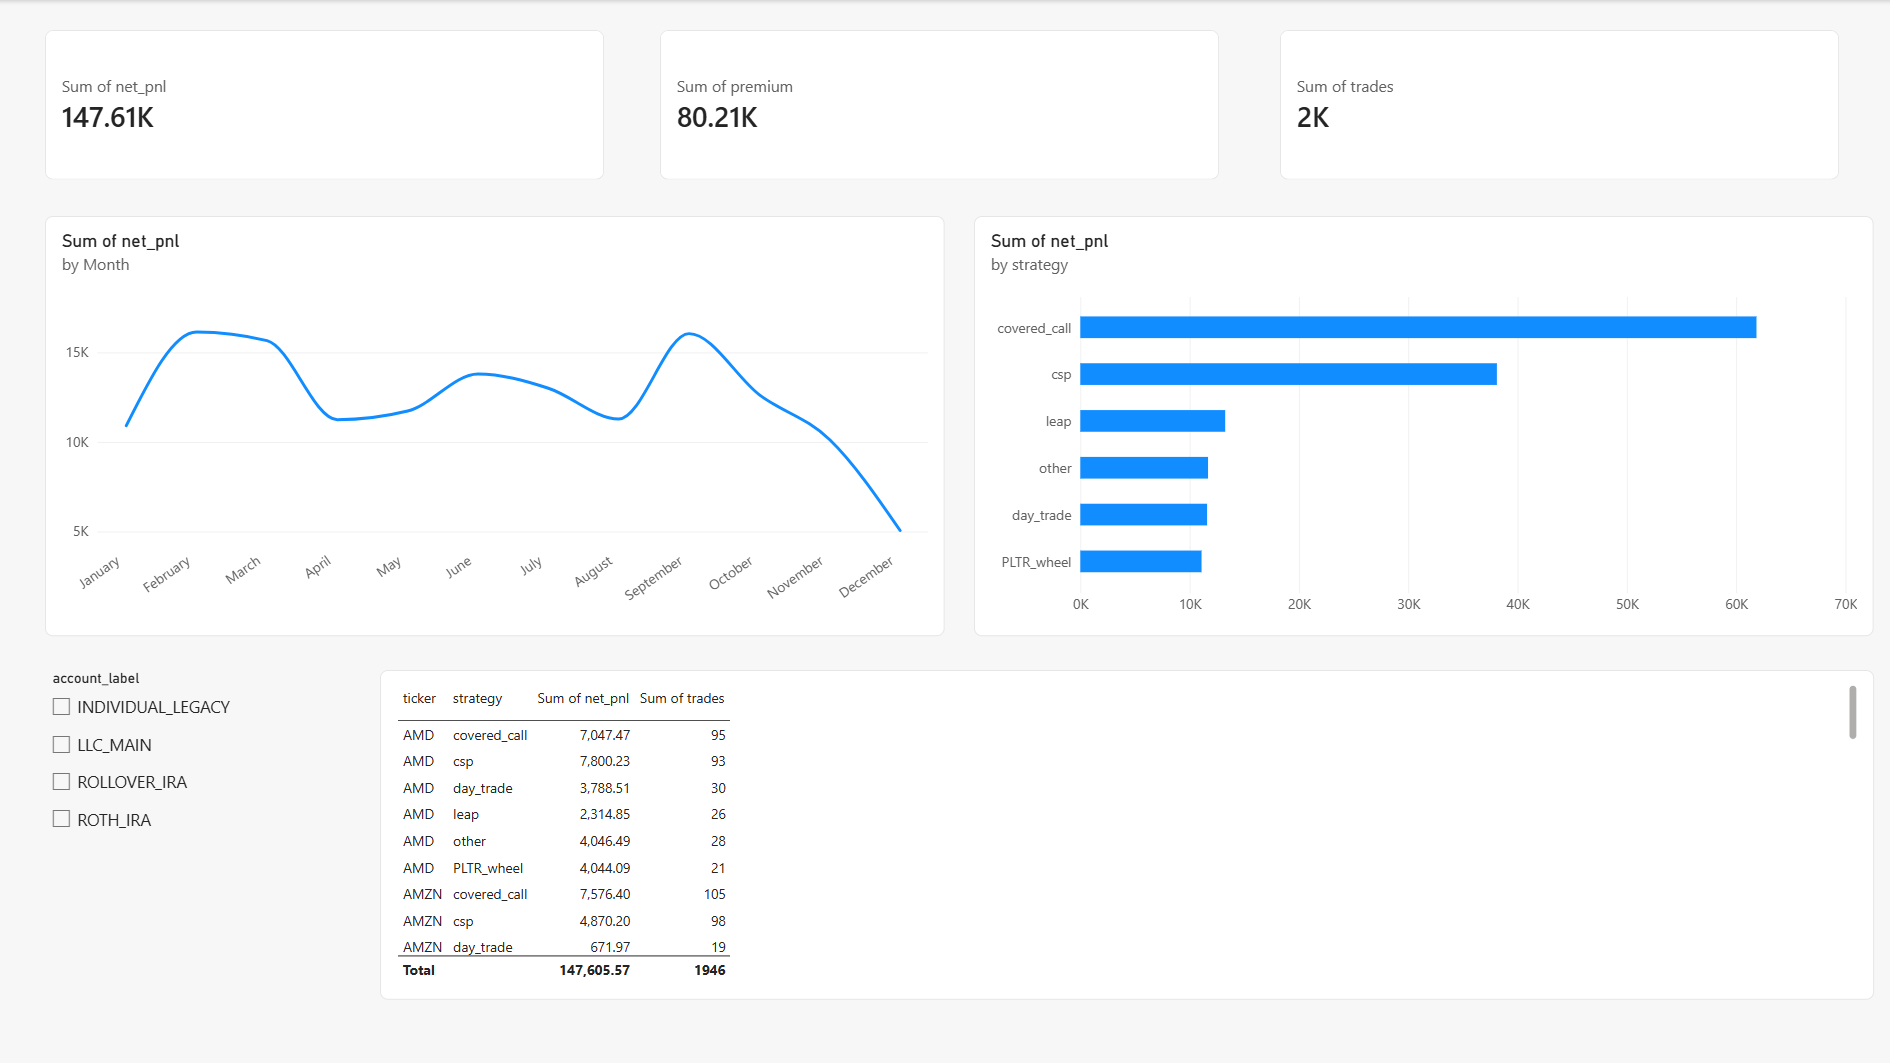
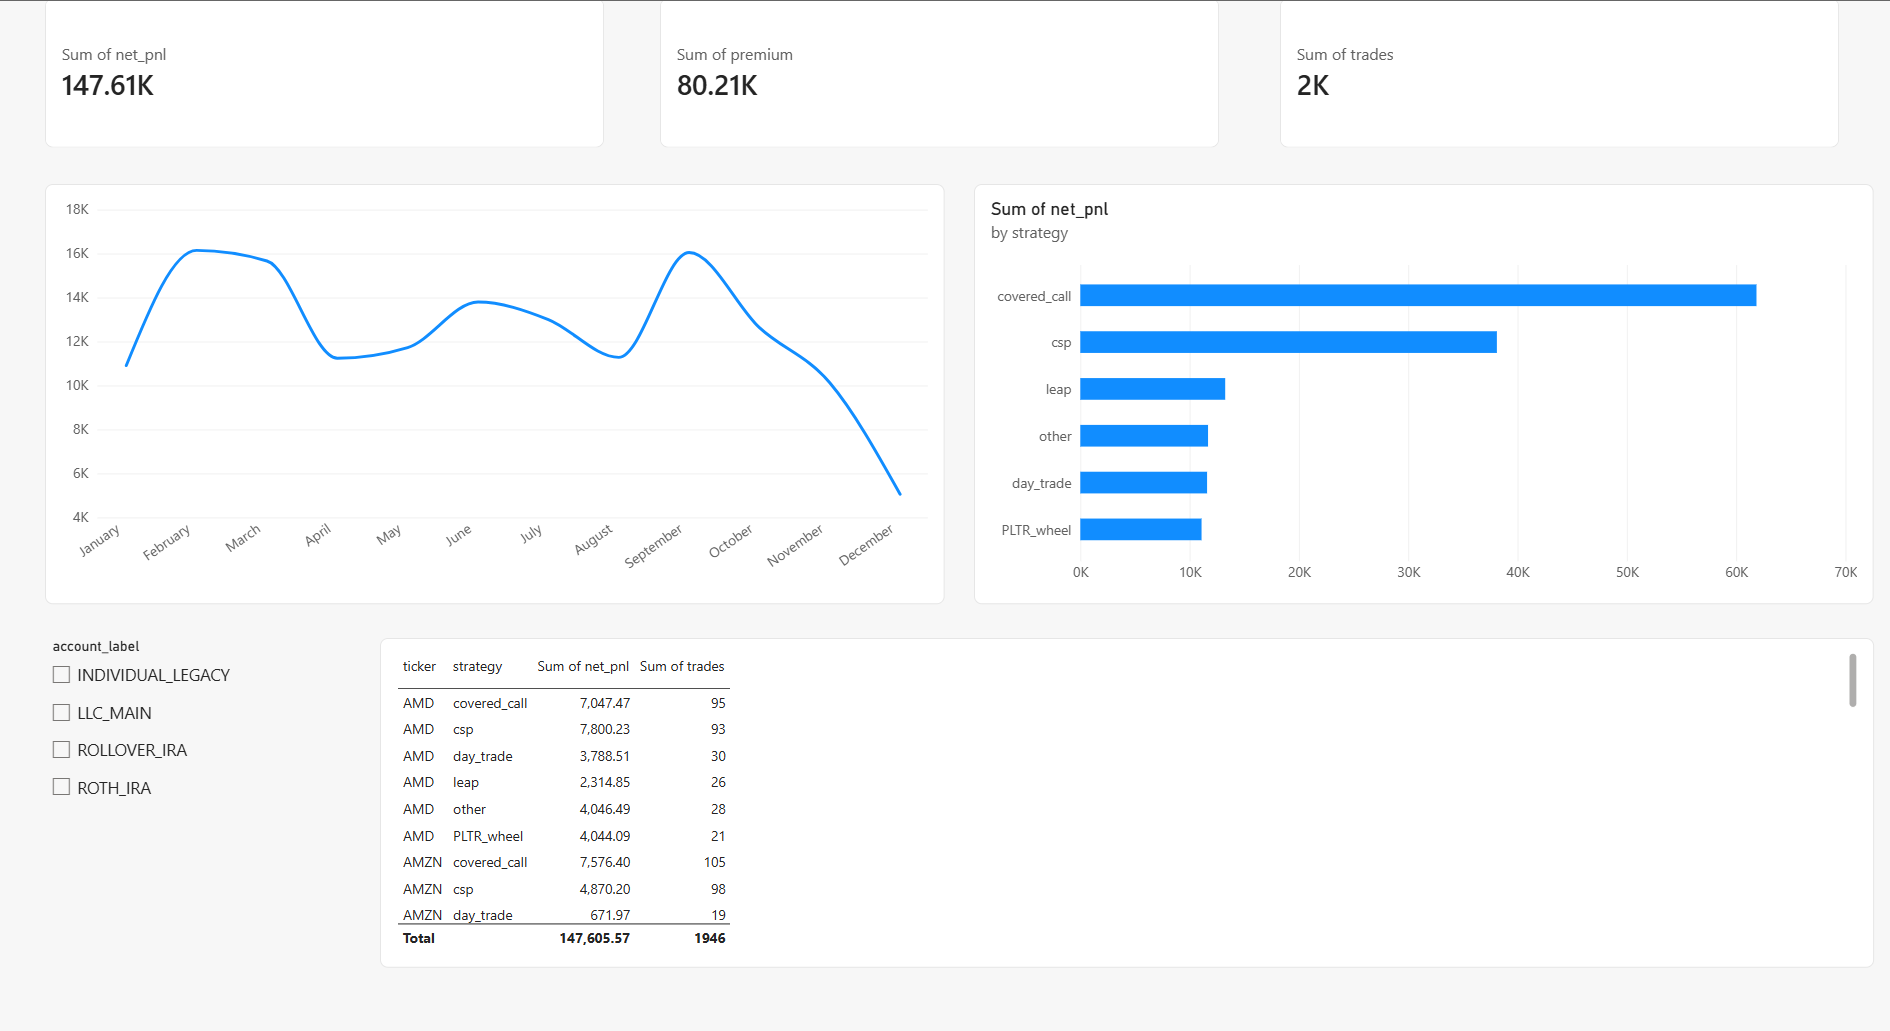
feat: build three-page Power BI report and refresh README screenshots

diff --git a/docs/PROJECT_STATUS.md b/docs/PROJECT_STATUS.md
@@ -35,12 +35,14 @@ personal absolute paths. The only committed data is the synthetic fixture
   end-to-end DuckDB run on the committed synthetic fixture, credential-free `dbt parse` for the
   cloud projects). The first GitHub Actions run (2026-11-09, run `42725377720`) completed
   **success**, and subsequent pushes are green as well.
-- **Power BI:** a working one-page dashboard was built in Power BI Desktop from the synthetic
-  sample (`powerbi/OptionsTrading.pbix`, gitignored locally) and committed as a public-safe
-  screenshot (`powerbi/screenshots/01-wheel-overview.png`): KPI cards, monthly P&L trend, P&L by
-  strategy, an account slicer and a ticker/strategy table. The committed assets also include the
-  combined dataset builder, DAX measures, theme, data dictionary and the three-page build spec
-  for extending it; pages 2–3 are not built yet.
+- **Power BI:** a working **three-page dashboard** was built in Power BI Desktop from the synthetic
+  sample (`powerbi/OptionsTrading.pbix`, gitignored locally) and committed as public-safe
+  screenshots under `powerbi/screenshots/` (01-wheel-overview, 02-csp-covered-calls,
+  03-data-quality-ops). Pages: Wheel Overview (KPI cards, monthly P&L trend, P&L by strategy,
+  account slicer, ticker/strategy table); CSPs & Covered Calls (assignments/expiries/premium KPIs,
+  premium by ticker, activity mix by source, lifecycle by account); Data Quality & Ops (net cash
+  flow, average DTE, trades by source, source/account/ticker detail). The committed assets also
+  include the combined dataset builder, DAX measures, theme, data dictionary and build spec.
 - **Orchestration:** Airflow DAGs and a Databricks Workflows path are authored; neither runs on a
   scheduler in this repo — that is a deployment step, not a claim.
 
@@ -101,10 +103,10 @@ is future work; the repo does not claim scheduled runs.
 
 ## Known gaps / honest caveats
 
-- CI is green and the tree is pushed; the next polish step is building pages 2–3 of the Power BI
-  report (`powerbi/dashboard-spec.md` has the full spec).
-- A Power BI report can be built locally from the committed dataset, measures and spec; the
-  `.pbix` is intentionally not committed.
+- CI is green and the tree is pushed. The three-page Power BI report is built and screenshotted;
+  remaining work is cosmetic (custom theme, DAX measures for friendlier labels, report header).
+- The `.pbix` is intentionally not committed (kept locally at `powerbi/OptionsTrading.pbix`);
+  the committed screenshots use synthetic data only.
 - BigQuery and Databricks runs depend on owner credentials and were not exercised in the
   release-prep verification above.
 - The four implementations share a design, not a runtime; keeping them in sync is manual.
@@ -113,8 +115,8 @@ is future work; the repo does not claim scheduled runs.
 
 ## Roadmap
 
-1. Extend the Power BI report to pages 2–3 (CSP/covered-call lifecycle and data-quality pages)
-   and refresh the README screenshot.
+1. Polish the Power BI report — custom theme/DAX measures for nicer titles, a report header, and
+   refresh the committed screenshots.
 2. `dbt docs generate` and link a lineage screenshot from the README.
 3. Deploy the Airflow DAGs to a scheduler, or schedule the Databricks notebook with Databricks Workflows.
 4. Optional differentiator: MCP server + data-health watchdog + agent skill (see `docs/MCP_AGENT_LAYER.md`,
@@ -129,5 +131,5 @@ is future work; the repo does not claim scheduled runs.
   and Databricks; PySpark/Delta notebook), with 35 pytest tests and 28 dbt tests per project
   including singular P&L reconciliation tests, and credential-free CI on a synthetic fixture.
 - Authored Airflow DAGs for local and BigQuery pipelines, a PySpark/Delta Databricks notebook,
-  and Power BI report assets over the marts; documented architecture, privacy design, design
-  trade-offs, and operational runbooks in-repo.
+  and a three-page Power BI dashboard over the marts (screenshots committed); documented
+  architecture, privacy design, design trade-offs, and operational runbooks in-repo.

diff --git a/README.md b/README.md
@@ -21,11 +21,20 @@ Power BI dashboard · credential-free GitHub Actions CI.
 **Status:** v1.0 tagged and CI green on every push. The local pipeline is verified end to end
 (35 pytest + 28 dbt tests); the cloud paths run with the owner's credentials.
 
-![Wheel Overview dashboard](powerbi/screenshots/01-wheel-overview.png)
+| Wheel Overview | CSPs & Covered Calls |
+|---|---|
+| ![Wheel Overview](powerbi/screenshots/01-wheel-overview.png) | ![CSPs & Covered Calls](powerbi/screenshots/02-csp-covered-calls.png) |
 
-*Power BI dashboard built from the committed synthetic sample data — KPI cards, monthly P&L
-trend, P&L by strategy, account slicer, and a ticker/strategy detail table. The report itself
-(`powerbi/OptionsTrading.pbix`) is kept local and gitignored; this screenshot is public-safe.*
+| Data Quality & Ops |
+|---|
+| ![Data Quality & Ops](powerbi/screenshots/03-data-quality-ops.png) |
+
+*Three-page Power BI report built from the committed synthetic sample data: **Wheel Overview**
+(KPI cards, monthly P&L trend, P&L by strategy, account slicer, ticker/strategy detail table),
+**CSPs & Covered Calls** (assignments, expiries and premium KPIs, premium by ticker, activity mix
+by source, lifecycle by account), and **Data Quality & Ops** (net cash flow, average DTE, trades by
+source, source/account/ticker detail). The report (`powerbi/OptionsTrading.pbix`) stays local and
+gitignored; these screenshots are public-safe.*
 
 ## Why this project
 
@@ -166,18 +175,23 @@ Both target Databricks Free Edition; CI runs only a credential-free `dbt parse` 
 
 ## Power BI
 
-A working **Power BI dashboard** is included in `powerbi/`, built on the committed synthetic
-sample data so it can be shown publicly (see the screenshot at the top of this README). It
-uses the combined dataset from `build_dashboard_dataset.py`: KPI cards, a monthly P&L trend,
-P&L by strategy, an account slicer, and a ticker/strategy detail table.
+A working **three-page Power BI dashboard** is included in `powerbi/`, built on the committed
+synthetic sample data so it can be shown publicly (screenshots at the top of this README). It
+uses the combined dataset from `build_dashboard_dataset.py`:
+
+- **Wheel Overview** — KPI cards, monthly P&L trend, P&L by strategy, account slicer, and a
+  ticker/strategy detail table.
+- **CSPs & Covered Calls** — assignments/expiries/premium KPIs, premium by ticker, activity mix by
+  source, and put/call/wheel lifecycle by account.
+- **Data Quality & Ops** — net cash flow, average DTE, trades by source, and source/account/ticker
+  detail.
 
 ```bash
 make powerbi        # or: ./run.sh powerbi
 # -> data/exports/powerbi/dashboard.csv  (single-table import; gitignored)
 ```
 
-The report is `powerbi/OptionsTrading.pbix` (kept local, gitignored). To rebuild or extend it —
-including the full three-page spec for CSP/covered-call lifecycle and data-quality pages — follow
+The report is `powerbi/OptionsTrading.pbix` (kept local, gitignored). To rebuild or extend it, follow
 `powerbi/dashboard-spec.md`; DAX measures, the report theme, and the data dictionary live in the
 same folder.
 
@@ -227,8 +241,8 @@ across engines (D5), reconciliation tests (D6), `net_pnl` vs `net_cash_flow` (D7
 
 ## Roadmap
 
-- Extend the Power BI report to the full three-page spec (CSP/covered-call lifecycle and
-  data-quality pages) and refresh the screenshots.
+- Polish the Power BI report: custom theme/DAX measures for friendlier titles, a report header,
+  and keep the committed screenshots current.
 - Generate `dbt docs` and link a lineage screenshot.
 - Deploy the Airflow DAGs to a scheduler (or schedule the notebook via Databricks Workflows).
 

diff --git a/powerbi/README.md b/powerbi/README.md
@@ -164,10 +164,12 @@ wide, and save these files:
 
 | File | Shot |
 |---|---|
-| `screenshots/01-wheel-overview.png` | Page 1 full canvas (KPI cards, monthly trend, strategy bar, account slicer) |
-| `screenshots/02-csp-covered-calls.png` | Page 2 (put/call lifecycle, P&L by ticker, activity donut) |
-| `screenshots/03-data-quality.png` | Page 3 (freshness, row counts, source mix) |
-| `screenshots/04-model-view.png` | Model view showing the fact tables and `DimAccount` relationships |
+| `screenshots/01-wheel-overview.png` | Page 1 — Wheel Overview (KPI cards, monthly trend, strategy bar, account slicer, ticker/strategy table) |
+| `screenshots/02-csp-covered-calls.png` | Page 2 — CSPs & Covered Calls (assignment/expiry/premium KPIs, premium by ticker, activity donut, lifecycle table) |
+| `screenshots/03-data-quality-ops.png` | Page 3 — Data Quality & Ops (cash flow / DTE cards, trades by source, source/account/ticker detail) |
+
+The repo currently ships captures 01–03, generated from the report built over
+`sample_data/dashboard_synthetic.csv`. Re-capture them if you rebuild the report.
 
 `loadData` / `save` guidance: the folder is tracked (`.gitkeep`) so the images can be added
 straight to the repo; then link them from the top of the root `README.md` as an image gallery.
